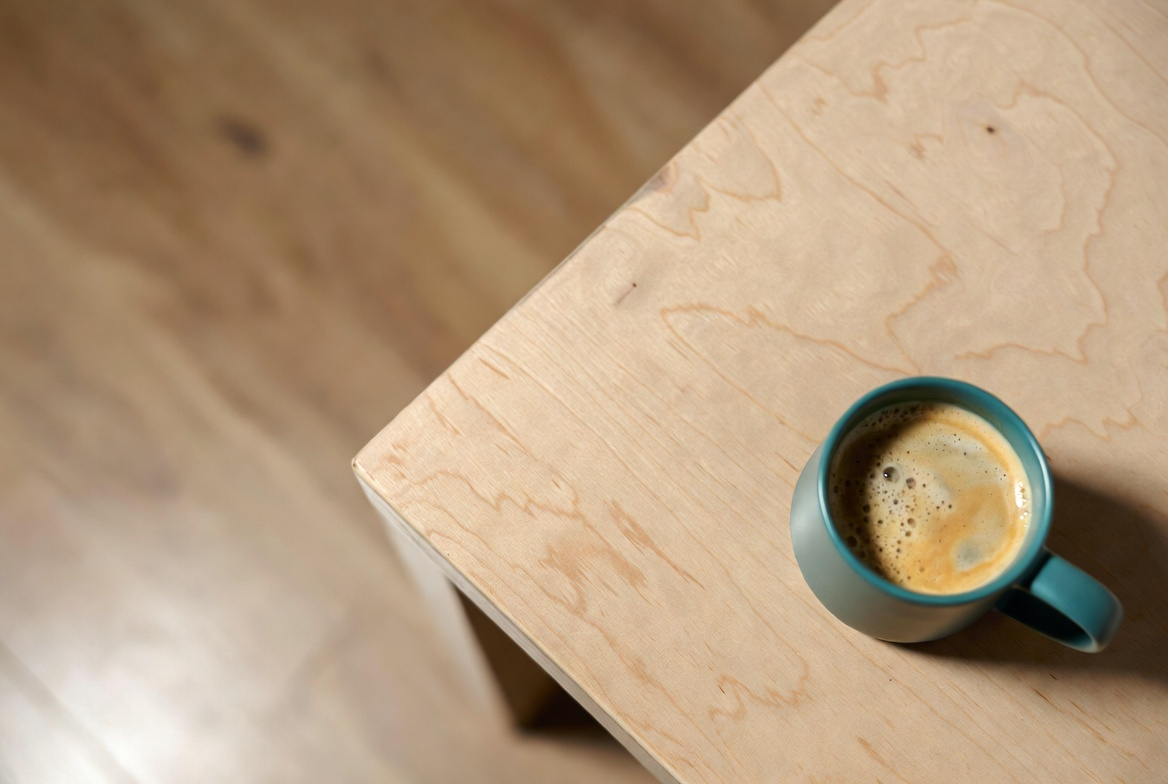
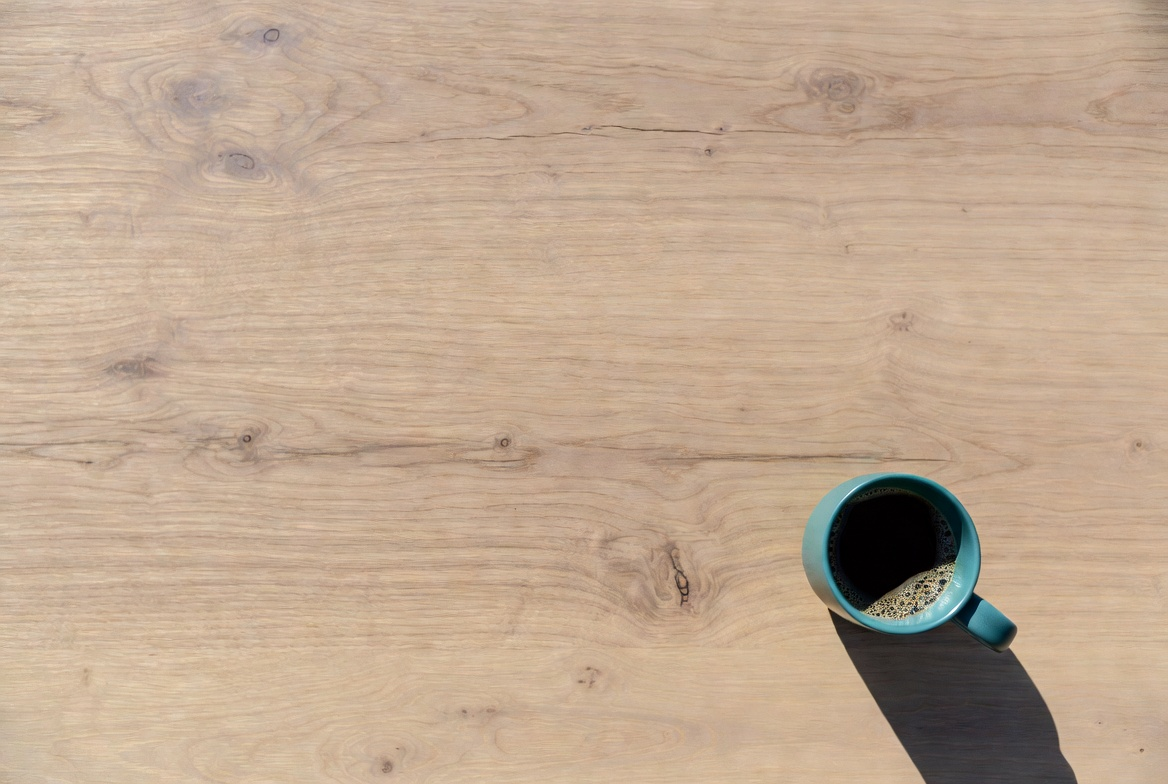
Switch desktop BG to Grok new bg2 — richer grain, stronger sharpening filter

diff --git a/src/app/aid-agent/page.tsx b/src/app/aid-agent/page.tsx
@@ -3733,8 +3733,8 @@ function EducationalBackground({ isDark = true, guidanceActive = false }: { isDa
   // Dark mode — teal table wallpaper, fully visible, no overlay
   return (
     <div className="fixed inset-0 -z-10 overflow-hidden" aria-hidden="true">
-      {/* Desktop: crisp teal mug on light birch — sharpening filter */}
-      <img src="/images/bg-wood.jpg" alt="" className="hidden md:block absolute inset-0 w-full h-full object-cover object-top" style={{ imageRendering: "crisp-edges", filter: "contrast(1.14) saturate(1.10) brightness(1.04)", WebkitFilter: "contrast(1.14) saturate(1.10) brightness(1.04)" } as React.CSSProperties} />
+      {/* Desktop: Grok-generated oak grain + teal mug — grain sharpening filter */}
+      <img src="/images/bg-wood.jpg" alt="" className="hidden md:block absolute inset-0 w-full h-full object-cover object-center" style={{ imageRendering: "crisp-edges", filter: "contrast(1.18) saturate(1.12) brightness(1.03)", WebkitFilter: "contrast(1.18) saturate(1.12) brightness(1.03)" } as React.CSSProperties} />
       {/* Mobile: sunlit table corner — sharpening filter */}
       <img src="/images/bg-wood-mobile.jpg" alt="" className="block md:hidden absolute inset-0 w-full h-full object-cover object-center" style={{ imageRendering: "crisp-edges", filter: "contrast(1.14) saturate(1.10) brightness(1.04)", WebkitFilter: "contrast(1.14) saturate(1.10) brightness(1.04)" } as React.CSSProperties} />
     </div>
